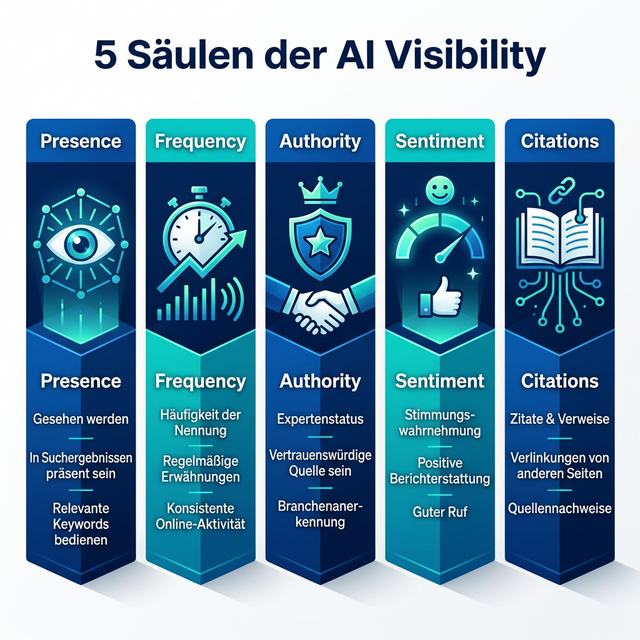
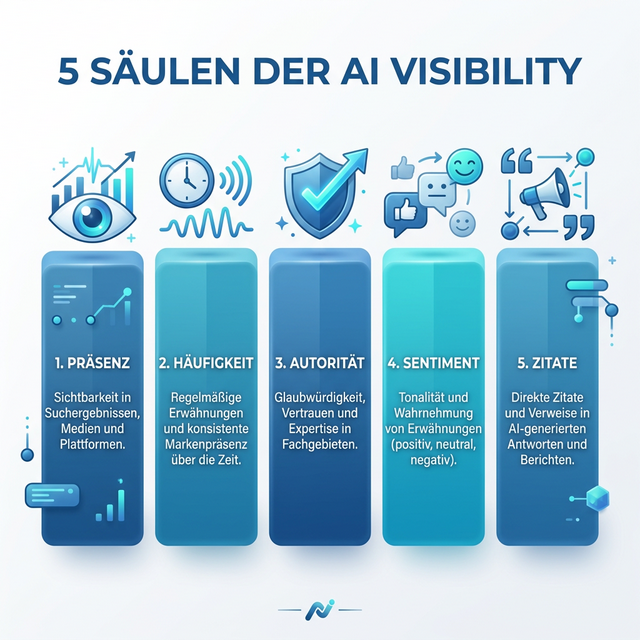
Deployment: Refined blog post with 20€ pricing, German infographics, and better layout

diff --git a/src/content/blog/rankscale-essentials-ai-tracking-einsteiger.md b/src/content/blog/rankscale-essentials-ai-tracking-einsteiger.md
@@ -1,87 +1,42 @@
 ---
-title: "Rankscale Essentials: Der absolute Preis-Leistungs-Kracher für AI-Visibility Einsteiger"
-description: "Warum das Essentials-Paket von Rankscale für 17€/Monat der perfekte Einstieg in die Welt des AI-Trackings ist. Flexibilität bei den Modellen und echte Daten statt Blindflug."
+title: "Rankscale Essentials: AI Visibility ab 20 Euro – Absolute Empfehlung für Einsteiger"
+description: "Warum das Essentials-Paket von Rankscale für 20€/Monat (bzw. 17€ im Jahresabo) der perfekte Einstieg ins AI-Tracking ist. Volle Flexibilität & echte Daten."
 date: "2026-02-27"
 linkedin_url: "https://www.linkedin.com/in/joerg-zimmer-seo-sea-freelancer-berlin-spandau/"
-image: "/images/blog/rankscale-essentials-beginner.png"
-image_alt: "Rankscale Essentials Package - AI Visibility for Beginners"
+image: "/images/blog/rankscale-essentials-hero.png"
+image_alt: "Rankscale Essentials AI Visibility ab 20 Euro"
 ---
 
 Moin!
 
 Hast du dich in letzter Zeit auch mal gefragt, ob die ganze Arbeit, die du in deinen Content steckst, eigentlich dort ankommt, wo die Leute heute ihre Antworten suchen? 
 
-Wir reden hier nicht mehr nur von der klassischen Google-Suche, wo wir uns um die "blauen Links" auf Seite 1 streiten. Wir reden von ChatGPT, Perplexity, Claude und Gemini. Wenn jemand fragt: „Wer ist der beste Experte für Thema X?“, willst du dort auftauchen. 
+Wir reden hier nicht mehr nur von der klassischen Google-Suche mit ihren "blauen Links". Wir reden von ChatGPT, Perplexity, Claude und Gemini. Wenn jemand fragt: „Wer ist der beste Experte für Thema X?“, willst du dort auftauchen. 
 
-Aber das Problem für viele Einsteiger war bisher: **Wie zum Geier messe ich das?** 
+Das Problem für Einsteiger war bisher: **Wie zum Geier messe ich das?** 
 
-Entweder du verbringst Stunden damit, manuell Fragen in fünf verschiedene KIs zu tippen (Spoiler: Das skaliert nicht), oder du schaust dir Enterprise-Lösungen an, die preislich jenseits von Gut und Böse liegen.
-
-Heute habe ich eine Nachricht für alle, die endlich Licht ins Dunkel ihres AI-Trackings bringen wollen, ohne gleich die Portokasse zu sprengen: **Das Rankscale Essentials-Paket.**
+Entweder du verbringst Stunden mit manuellem Tippen in fünf verschiedene KIs, oder du schaust dir Enterprise-Lösungen an, die preislich jenseits von Gut und Böse liegen. Heute habe ich die Lösung für alle, die Licht ins Dunkel ihres AI-Trackings bringen wollen: **Das Rankscale Essentials-Paket.**
 
 ---
 
-## Der Blindflug hat ein Ende – und zwar günstig
+## Preis-Leistung, die Spaß macht: Der Deal für 20 Euro
 
-Ich sage es, wie es ist: Wer heute kein AI-Tracking macht, betreibt SEO im Blindflug. Punkt. 
+Wer heute kein AI-Tracking macht, betreibt SEO im Blindflug. Aber man muss am Anfang nicht direkt 100€ oder mehr im Monat ausgeben. Das Essentials-Paket von Rankscale ist für mich die absolute Empfehlung für jeden Einsteiger.
 
-Aber ich verstehe auch, dass man am Anfang nicht direkt 100€ oder mehr im Monat für ein Tool ausgeben will, das man erst mal kennenlernen muss. Genau hier kommt das neue **Essentials-Paket von Rankscale** ins Spiel.
+**Die Zahlen:** Du zahlst **20 € pro Monat** bei monatlicher Kündbarkeit. Wer sich direkt festlegt, landet im Jahresabo bei gerade einmal **17 € pro Monat**. 
 
-Ich habe mir die Details mal genau angeschaut und muss sagen: Das ist für mich die absolute Empfehlung für jeden, der neu in der "AI Tracking Welt" ist.
-
-### Die nackten Zahlen (Die dich freuen werden):
-
-*   **Der Preis:** 20 € pro Monat bei monatlicher Zahlung.
-*   **Der Profi-Tipp:** Wenn du dich für das Jahresabo entscheidest, landest du bei gerade einmal **17 € pro Monat**. 
-
-17 Euro! Das ist weniger, als viele für ihr Netflix-Abo oder den täglichen Coffee-to-go ausgeben. Und hier bekommst du ein echtes Business-Tool, das dir zeigt, wo deine Marke im KI-Zeitalter steht.
+Das ist weniger als ein täglicher Kaffee und du bekommst dafür:
+*   **120 Credits & 480 AI Responses:** Echte Antworten schwarz auf weiß.
+*   **10 Page Audits & 5 Brand Slots:** Deine Projekte immer im Blick.
+*   **Unlimited Search Terms:** Tracken ohne Limit bei den Begriffen.
 
 ---
 
-## Was steckt drin im Essentials-Paket?
+## Die Geheimwaffe: Flexibilität bei den Modellen
 
-Man könnte meinen, bei so einem Preis bekommt man nur eine abgespeckte Resterampe. Aber weit gefehlt. Rankscale hat das Paket so geschnürt, dass du als Einzelkämpfer, kleinerer Publisher oder frischgebackener SEO-Pionier alles hast, was du brauchst:
+Was Rankscale wirklich auszeichnet, ist die Wahl der **Engines**. Wir leben nicht mehr in einer Welt mit nur einer KI. OpenAI ist Marktführer, aber Perplexity ist die Suchmaschine der Zukunft, Claude schreibt oft besser und Gemini ist tief in Google verwitwelt.
 
-*   **120 Credits pro Monat:** Das reicht für ordentlich viele Abfragen und Analysen.
-*   **10 Free Page Audits pro Monat:** Schau dir genau an, warum bestimmte Seiten von der KI geliebt werden und andere nicht.
-*   **5 Brand Dashboard Slots:** Behalte nicht nur deine Hauptdomain im Auge, sondern vielleicht auch dein wichtigstes Produkt oder ein Herzensprojekt.
-*   **Unlimited Search Terms:** Ja, du hast richtig gelesen. Du kannst tracken, was das Zeug hält.
-*   **Bis zu 480 AI Responses:** Das Tool sammelt für dich die echten Antworten der KIs ein, damit du sie schwarz auf weiß hast.
-
----
-
-## Der absolute Game-Changer: Flexibilität durch Wahl der Modelle
-
-Das ist der Punkt, der mich bei Rankscale immer wieder begeistert und der im Essentials-Paket voll enthalten ist: **Du hast die Wahl!**
-
-Wir leben nicht mehr in einer Welt, in der es nur "die eine KI" gibt. OpenAI (ChatGPT) mag der Marktführer sein, aber Perplexity ist die Suchmaschine der Zukunft, Claude schreibt oft den besseren Content und Gemini ist tief in Google integriert.
-
-In Rankscale kannst du entscheiden, welche **Engines** du tracken willst. Du hast Zugriff auf:
-*   ChatGPT (OpenAI)
-*   Claude (Anthropic)
-*   Gemini (Google)
-*   Perplexity
-*   Mistral
-*   und viele mehr... (insgesamt über 17 LLMs!)
-
-Diese Flexibilität ist Gold wert. Warum? Weil jede KI anders tickt. Eine Marke, die in ChatGPT super sichtbar ist, kann in Perplexity komplett untergehen. Mit dem Essentials-Paket kannst du genau diese Unterschiede herausarbeiten und deine Strategie anpassen. 
-
-> "Wer nur auf ein Pferd setzt, verliert das Rennen. Wer die Daten über alle wichtigen KIs hat, gewinnt den Markt." – Meiner Meinung nach das Credo für 2026.
-
----
-
-## Warum ist das die absolute Empfehlung für Einsteiger?
-
-Wenn mich heute jemand fragt: „Jörg, ich will mit AI-SEO anfangen, was soll ich tun?“, dann ist meine Antwort simpel:
-1. Bau guten Content (E-E-A-T, du weißt schon).
-2. **Hol dir Rankscale Essentials.**
-
-### Warum genau dieses Paket?
-
-1.  **Kein Risiko:** Bei 17€ bis 20€ gibt es keine Ausreden mehr. Das ist ein Investment, das sich oft schon nach der ersten gefundenen "Lücke" in der Sichtbarkeit amortisiert.
-2.  **Lernkurve:** Das Tool führt dich sanft ein. Du lernst, wie KIs über dich denken (Sentiment-Analyse!) und welche Quellen sie zitieren.
-3.  **Klare Action-Steps:** Du siehst nicht nur Daten, sondern verstehst, was du tun musst, um besser zitiert zu werden.
-4.  **Zukunftssicher:** Du startest klein, aber mit einem Tool, das mit dir wachsen kann. Wenn du später mehr brauchst, ist der Upgrade-Pfad zu Pro oder Enterprise jederzeit offen.
+Im Essentials-Paket hast du Zugriff auf über 17 LLMs (u.a. ChatGPT, Claude, Gemini, Perplexity, Mistral). Jede KI tickt anders. Eine Marke, die in ChatGPT sichtbar ist, kann in Perplexity komplett untergehen. Diese Flexibilität ist dein Goldwert, um die Unterschiede zu verstehen und deine Strategie anzupassen.
 
 ---
 
@@ -90,84 +45,45 @@ Wenn mich heute jemand fragt: „Jörg, ich will mit AI-SEO anfangen, was soll i
 ![AI Visibility Trichter - Der Prozess von Content zu Daten](/images/blog/ai-visibility-trichter.png)
 
 Stell dir das Ganze wie einen Trichter vor:
+1.  **Input:** Dein Content und deine Marke fließen hinein.
+2.  **Der Kern:** Über 17+ KI-Modelle analysieren deine Daten gleichzeitig.
+3.  **Output:** Du erhältst klare Daten zu Sichtbarkeit, Sentiment (Stimmung) und Zitaten.
 
-1.  **Input:** Dein Content & deine Brand.
-2.  **The Box (Rankscale):** Analyse durch 17+ verschiedene Gehirne (LLMs).
-3.  **Output:** 
-    *   *Sichtbarkeit:* Wo wirst du genannt?
-    *   *Sentiment:* Werden wir gelobt oder ignoriert?
-    *   *Citations:* Werden deine Links sauber gesetzt?
-4.  **Result:** Deine optimierte GEO-Strategie (Generative Engine Optimization).
+Das ist sauberes, datengetriebenes Arbeiten statt Bauchgefühl. Wer die Daten über alle wichtigen KIs hat, gewinnt am Ende den Markt.
 
 ---
 
-## Der Deep Dive: Welche Modelle machen den Unterschied?
+## 30-Tage Quickstart für Einsteiger
 
-Ich habe es oben schon kurz erwähnt, aber lass uns da mal tiefer einsteigen. Denn die Flexibilität, die Modelle selbst zu wählen, ist das, was Rankscale von vielen "billigen" Tools unterscheidet, die einfach nur via API irgendwelche ChatGPT-Antworten durchschleifen.
+Wie startest du jetzt konkret? Hier ist mein Schlachtplan für deinen ersten Monat mit Rankscale:
 
-### ChatGPT (OpenAI) – Der Standard
-Jeder kennt es. Aber wusstest du, dass die Ergebnisse in den verschiedenen GPT-Versionen massiv schwanken können? Mit Rankscale siehst du nicht nur "ChatGPT", sondern oft auch die Unterschiede zwischen den Modellen. Für Einsteiger ist das extrem wertvoll, um zu verstehen: Werden wir in der Gratis-Version genannt oder nur in den Plus-Modellen?
+**Woche 1: Die Bestandsaufnahme.** Gib deine Domain und deine Top-Wettbewerber ein. Schau dir das Sentiment an: Wenn die KI dich erwähnt, klingt das positiv oder neutral?
 
-### Claude (Anthropic) – Der Kreative
-Claude hat in den letzten Monaten einen riesigen Sprung gemacht. Viele SEO-Kollegen nutzen Claude für das Content-Writing, weil es weniger "roboterhaft" klingt. Wenn du wissen willst, ob Claude deine Marke als vertrauenswürdig einstuft, ist das Essentials-Paket dein bester Freund. Claude neigt dazu, sehr präzise Quellen zu nennen – bist du dabei?
+**Woche 2: Die Inhalts-Lücke.** Nutze die Audits. Warum ignorieren KIs Seiten, die bei Google eigentlich gut ranken? Oft fehlen nur Kleinigkeiten wie klare Fakten oder strukturierte Daten.
 
-### Perplexity – Das neue Google?
-Wenn ich sage, dass Perplexity die Welt des SEO gerade auf den Kopf stellt, dann untertreibe ich massiv. Perplexity ist eine *echte* KI-Suchmaschine. Sie kombiniert Echtzeit-Websuche mit KI-Antworten. Hier zitiert zu werden, ist wie ein Platz 1 bei Google vor 10 Jahren. Im Essentials-Paket kannst du gezielt schauen: Tauchen wir in den Fußnoten von Perplexity auf? Das ist der heilige Gral von GEO.
+**Woche 3: Wettbewerbs-Check.** Wo wird die Konkurrenz zitiert? Welche Verzeichnisse nutzen sie? Rankscale zeigt dir die Quellen, damit du nachziehen kannst.
 
-### Gemini (Google) – Der schlafende Riese
-Unterschätze niemals Google. Gemini wird immer tiefer in die Suche, in Chrome und in Android integriert. Wenn Gemini dich nicht kennt, hast du ein Problem mit deiner Google-Verknüpfung. Rankscale zeigt dir diesen Blindspot.
+**Woche 4: Optimierung.** Passe deinen Content basierend auf den Insights an und schaue in der nächsten Abfrage, ob sich die Nadel bewegt.
 
 ---
 
-## Praxis-Check: Deine ersten 30 Tage mit dem Essentials-Paket
+## Fazit: Nicht warten, sondern machen!
 
-„Jörg, schön und gut, aber was mache ich jetzt konkret?“, höre ich dich fragen. Hier ist mein Schlachtplan für deinen ersten Monat:
+SEO verändert sich massiv. Die Leute nutzen KI-Assistenten, um Entscheidungen zu treffen. Wenn du dort nicht stattfindest, existierst du für diese Zielgruppe nicht.
 
-### Woche 1: Die Bestandsaufnahme
-Gib deine Domain und deine Top-3 Wettbewerber ein. Lass das Tool einmal durchlaufen. Sei nicht enttäuscht, wenn du am Anfang weniger auftauchst, als du dachtest. Wir wollen hier ehrliche Daten, keine geschönten Dashboards. Schau dir das **Sentiment** an: Wenn dich die KI erwähnt, klingt das positiv? Oder wird nur über alte Kamellen gesprochen?
-
-### Woche 2: Die Inhalts-Lücke
-Analysiere die **Audits**. Nimm eine Seite von dir, die bei Google eigentlich gut rankt, aber in der KI ignoriert wird. Rankscale zeigt dir oft, welche Informationen der KI fehlen, um dich als vertrauenswürdige Quelle zu sehen. Oft sind es Kleinigkeiten: Fehlende Fakten, unklare Strukturen oder fehlendes Author-Schema.
-
-### Woche 3: Wettbewerbs-Spionage (Die gute Art!)
-Schau dir an, wo deine Konkurrenz zitiert wird. Welche Seiten nutzen sie? Welche Verzeichnisse? Rankscale listet dir die Quellen auf. Wenn Konkurrent A immer wieder in ChatGPT auftaucht, weil er in einem bestimmten Branchenverzeichnis steht, dann weißt du, was zu tun ist.
-
-### Woche 4: Die erste Optimierung
-Passe einen deiner wichtigsten Artikel basierend auf den Insights an. Nutze klarere Definitionen, füge strukturierte Daten hinzu und schau in der nächsten Abfrage, ob sich etwas bewegt. 
-
----
-
-## Infografik: Die 5 Säulen deiner AI Visibility Strategie
-
-![Die 5 Säulen der AI Visibility - Rankscale Essentials](/images/blog/five-pillars-ai-visibility.png)
-
-Hier nochmal optisch aufbereitet:
-
-1.  **Presence (Präsenz):** Wirst du überhaupt erwähnt? (Die Basis)
-2.  **Frequency (Häufigkeit):** Wie oft pro 100 Abfragen tauchst du auf?
-3.  **Authority (Autorität):** Wirst du als "der Experte" oder nur als "Beispiel" genannt?
-4.  **Sentiment (Stimmung):** Mag dich die KI oder warnt sie vor dir?
-5.  **Citations (Zitate):** Bekommst du den wertvollen Link?
-
-Mit dem **Essentials-Paket** deckst du alle diese Säulen für schmale 17€ bis 20€ ab. Das ist kein Hexenwerk, sondern sauberes datengetriebenes Arbeiten.
-
----
-
-## Warum jetzt der beste Zeitpunkt ist?
-
-Ganz ehrlich: Wir stehen gerade an der Schwelle, an der "AI-SEO" von einer Spielerei für Nerds zum Standard für jedes Unternehmen wird. Wer jetzt die ersten Erfahrungen sammelt, hat in zwei Jahren einen uneinholbaren Vorsprung.
-
-Die Flexibilität, die Rankscale bietet – gerade durch die Wahl der Modelle – ist dein Schutzschild gegen die schnellen Veränderungen im Markt. Wenn morgen ein neues LLM aus dem Boden schießt, ist die Wahrscheinlichkeit groß, dass das Team aus Österreich es schon auf dem Schirm hat.
-
-**Mein Fazit bleibt:** Das Essentials-Paket ist die absolute Empfehlung. Es ist wie das Fitnessstudio-Abo für deinen digitalen Marken-Körper. Nur dass du hier nicht nur hingehst, sondern echte Muskeln (Daten!) aufbaust.
+Rankscale Essentials ist die fairste Eintrittskarte in diese neue Welt. Es ist intuitiv, kommt aus Österreich und liefert Daten, die man sonst kaum so kompakt bekommt. Es ist wie das Fitnessstudio für deinen digitalen Marken-Körper: Du baust echte Daten-Muskeln auf.
 
 ALOHA ✌
 
 ---
 
+![Die 5 Säulen der AI Visibility - Rankscale Essentials](/images/blog/five-pillars-ai-visibility.png)
+
+---
+
 <div class="blog-cta-box">
   <h3>Werde jetzt zum AI Visibility Profi!</h3>
-  <p>Keine Ausreden mehr. Hol dir das Rankscale Essentials-Paket für nur 17 € im Monat (Jahresabo) und starte dein Tracking noch heute.</p>
+  <p>Hol dir das Rankscale Essentials-Paket für nur 17 € im Monat (Jahresabo) und starte dein Tracking noch heute.</p>
   <a href="https://rankscale.ai/pricing?via=offer" target="_blank" rel="noopener noreferrer" class="btn-primary inline-flex mt-4 no-underline">
     Jetzt Rankscale testen →
   </a>
@@ -175,7 +91,7 @@ ALOHA ✌
 
 ---
 
-*PS: Wenn du Hilfe beim Setup brauchst oder die ersten Daten nicht richtig interpretieren kannst: Buch dir eine [SEO-Sprechstunde](/seo-sprechstunde/) bei mir. Wir schauen uns das gemeinsam an und biegen deine AI-Visibility gerade!*
+*PS: Wenn du Hilfe beim Setup brauchst, buche dir eine [SEO-Sprechstunde](/seo-sprechstunde/) bei mir. Wir biegen deine AI-Visibility gemeinsam gerade!*
 
 ### Diese Artikel könnten dich auch interessieren:
 * [Rankscale: Ein AI Visibility Tool das ich empfehlen kann](/blog/rankscale-ai-visibility-tool/)
